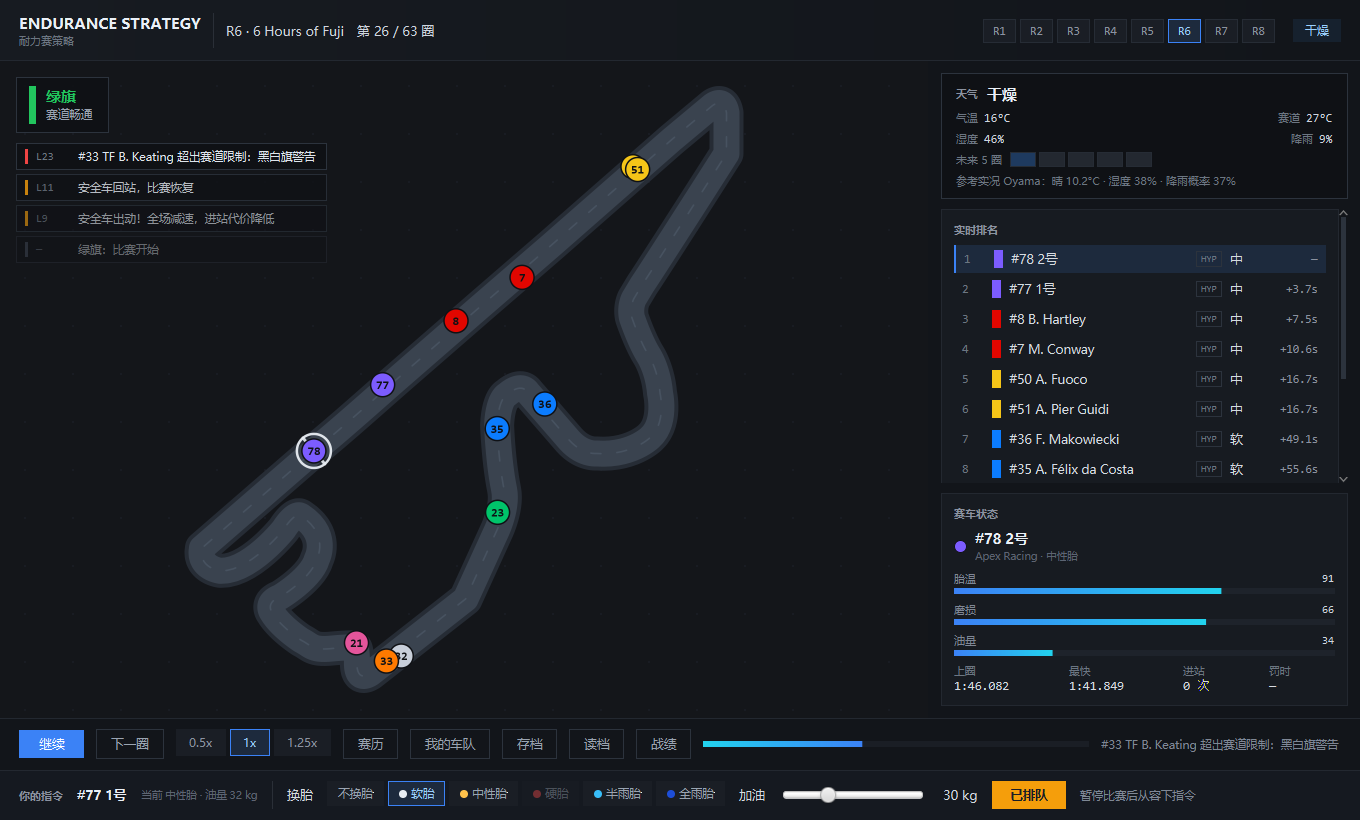
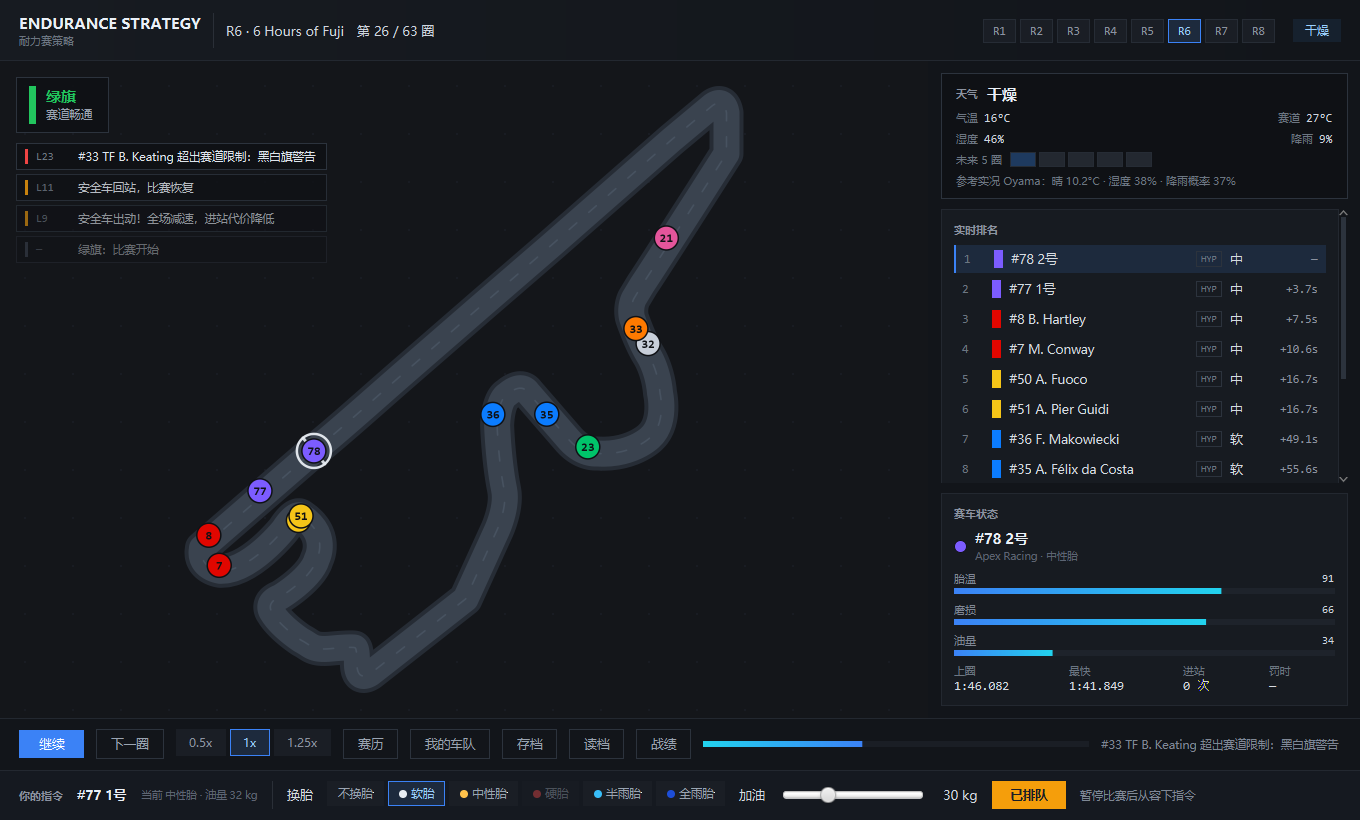
fix(ui): 赛道图上的车辆前后顺序画反了
TrackView.drawCars 里算「落后圈数」时符号写反：

    double behindLaps = leadLaps - car.totalTime() / avgLap;   // 错
    fraction = phase - behindLaps;

leadLaps 是领跑者的圈数，car.totalTime()/avgLap 是这辆车的圈数，
用时会**更长**的车这个值更大，所以相减得到的是负数。
再套进 phase - behindLaps，等于把慢车往前推。

后果：赛道上所有车的相对位置与排名表相反——跑得越慢画得越靠前。
因为同一集团只差几秒（约 2% 圈长），又叠加了横向偏移，不细看容易忽略。

修复
- behindLaps 改为 car.totalTime()/avgLap - leadLaps（正数才是落后）
- 位置计算抽成 TrackView.progressOf(car, phase, leadLaps, avgLap)，
  退赛归位逻辑一并收进去，便于单独测试

测试：新增 1 条断言（PlayCheck 68 -> 69）
- 取 12 圈后的实时排名，逐对比较相邻名次
- 名次靠前的车，progressOf 必须不小于后面的车（差距小于半圈时）
- 104 项全部通过

截图：16 张比赛图按修复后的位置重新渲染，答辩 PPT 随之更新。

diff --git a/src/main/java/com/endurance/dev/PlayCheck.java b/src/main/java/com/endurance/dev/PlayCheck.java
@@ -75,6 +75,7 @@ public final class PlayCheck {
         testRedFlagPause(data);
         testSeedDeterminism(data);
         testWeatherForecast(data);
+        testTrackProgressMatchesStandings(data);
     }
 
     /** 玩家排队一条进站指令，下一圈应该真的进站。 */
@@ -345,6 +346,47 @@ public final class PlayCheck {
                 !stepped && simC.completedLaps() == lapsAtFinish
                         && simC.events().size() == eventsAtFinish);
         lineupC.close();
+    }
+/** 赛道上的前后顺序必须和排名表一致：慢车不能画到快车前面。 */
+    private static void testTrackProgressMatchesStandings(GameData data) {
+        var lineup = com.endurance.setup.RaceSetup.build(
+                data, data.defaultTrack(), 20, 8899L, false, false);
+        var simulator = new com.endurance.sim.RaceSimulator(lineup.config(), lineup.strategies());
+        for (int i = 0; i < 12; i++) {
+            simulator.step();
+        }
+
+        var standings = simulator.liveStandings();
+        double avgLap = simulator.config().track().baseLapSeconds() + 4;
+        double leaderTime = standings.isEmpty() ? 0 : standings.get(0).totalTime();
+        double leadLaps = leaderTime / avgLap;
+        double phase = 0.42;
+
+        // 相邻两名之间：名次靠前的车，赛道进度必须更大（或落在同一小数相位内）
+        int violations = 0;
+        StringBuilder detail = new StringBuilder();
+        for (int i = 1; i < standings.size(); i++) {
+            var ahead = standings.get(i - 1);
+            var behind = standings.get(i);
+            double aheadFraction = com.endurance.ui.TrackView.progressOf(
+                    ahead, phase, leadLaps, avgLap);
+            double behindFraction = com.endurance.ui.TrackView.progressOf(
+                    behind, phase, leadLaps, avgLap);
+            // 差距小于半圈时直接比大小；跨圈的情况由小数相位兜底，不参与比较
+            double gapLaps = (behind.totalTime() - ahead.totalTime()) / avgLap;
+            if (gapLaps > 0 && gapLaps < 0.5 && behindFraction > aheadFraction) {
+                violations++;
+                if (detail.length() < 60) {
+                    detail.append("#").append(ahead.number()).append("(#")
+                            .append(i).append(") < #").append(behind.number())
+                            .append("(#").append(i + 1).append(") ");
+                }
+            }
+        }
+        lineup.close();
+        check("赛道上前后顺序与排名一致"
+                        + (violations == 0 ? "" : "（" + violations + " 处反了：" + detail + "）"),
+                violations == 0);
     }
     /** P0-5：强制 3 圈安全车，必须恰好 3 圈，且第 4 圈不再处于安全车。 */
     private static void testSafetyCarTiming(GameData data) {

diff --git a/src/main/java/com/endurance/ui/TrackView.java b/src/main/java/com/endurance/ui/TrackView.java
@@ -189,6 +189,22 @@ public class TrackView extends Region {
         g.strokeLine(sx - nx * half, sy - ny * half, sx + nx * half, sy + ny * half);
     }
 
+    /**
+     * 一台车在当前相位下的赛道进度（0~1，沿路径正向，越大越靠前）。
+     *
+     * <p>用时会**更长**的车才算落后，所以「落后圈数」一定是正数。
+     * 取小数部分是为了让落后整圈的车绕回赛道前面的位置，而不是堆在起点。</p>
+     */
+    public static double progressOf(Car car, double phase, double leadLaps, double avgLap) {
+        if (car.isRetired()) {
+            // 退赛车停在维修区入口
+            return 0.995;
+        }
+        double behindLaps = car.totalTime() / avgLap - leadLaps;
+        double fraction = phase - behindLaps;
+        return fraction - Math.floor(fraction);
+    }
+
     private void drawCars(GraphicsContext g, double scale, double offsetX, double offsetY) {
         List<Car> cars = simulator.cars();
         double avgLap = simulator.config().track().baseLapSeconds() + 4;
@@ -208,18 +224,10 @@ public class TrackView extends Region {
 
         for (int index = 0; index < cars.size(); index++) {
             Car car = cars.get(index);
-            double fraction;
-            if (car.isRetired()) {
-                // 退赛车停在维修区入口
-                fraction = 0.995;
-            } else {
-                // 真实相位 = 当前圈内进度 - 落后圈数，再取小数部分。
-                // 原来把落后量截断在 0.95 圈内，落后三四圈的 GT3 会全部堆在同一个点上互相盖住，
-                // 看起来就像"赛道上车变少了"。
-                double behindLaps = leadLaps - car.totalTime() / avgLap;
-                fraction = phase - behindLaps;
-                fraction -= Math.floor(fraction);
-            }
+            // 真实相位 = 当前圈内进度 - 落后圈数，再取小数部分。
+            // 原来把「落后圈数」写成 leadLaps - 车圈数，算出来是负数，
+            // 等于把慢车往前推——赛道上的前后顺序和排名表完全相反。
+            double fraction = progressOf(car, phase, leadLaps, avgLap);
             double[] point = path.pointAt(fraction);
 
             // 同一位置附近的车沿法线错开，避免完全重叠看不出是一队车
